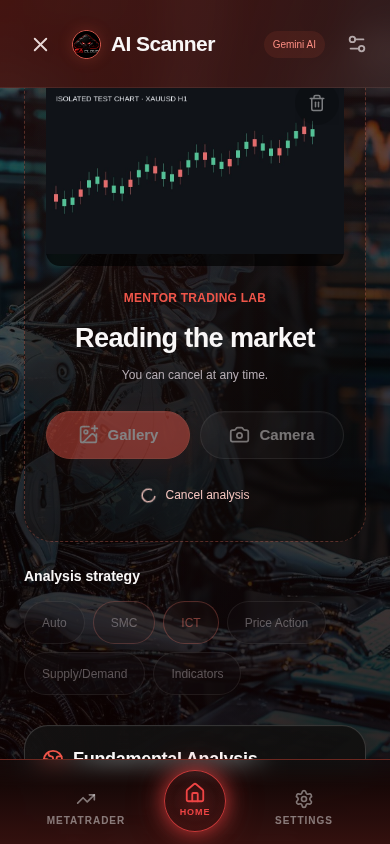
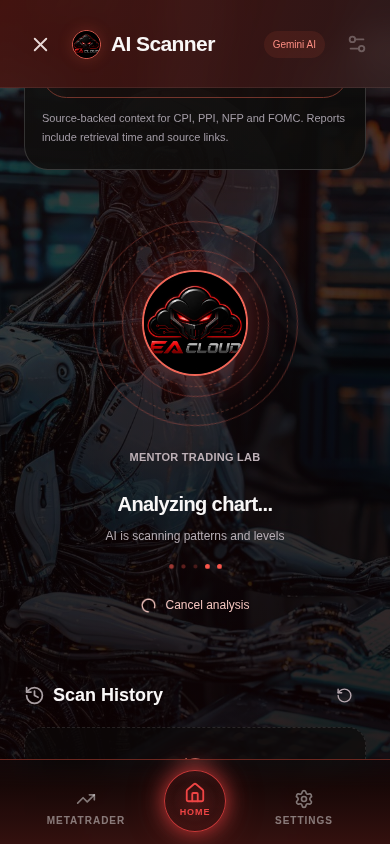
[skip ci] Refine scanner trade settings sheet and analysis animation

diff --git a/artifacts/ea-app/src/components/ChartScannerModal.tsx b/artifacts/ea-app/src/components/ChartScannerModal.tsx
@@ -3,6 +3,8 @@ import { useState, useEffect, useRef, useCallback, type ChangeEvent } from "reac
 import { useApp, type Tab } from "@/context/AppContext";
 import { eaLogo } from "@/lib/branding";
 import BottomNav from "@/components/BottomNav";
+import ScannerTradeSettings from "@/components/ScannerTradeSettings";
+import { formatLots, type ScannerTradeSettings as TradeSettings } from "@/lib/scanner-trade-settings";
 import { prepareChart, scannerRequest, strategies, type Strategy, type ScannerRecord, type ChartReport, type FundamentalReport, type FundamentalRequest } from "@/lib/scanner";
 import "./ChartScannerModal.css";
 
@@ -25,10 +27,11 @@ export default function ChartScannerModal({ onClose, onNavigate }: ChartScannerM
   const [hasMore, setHasMore] = useState(false);
   const [result, setResult] = useState<ScannerRecord | null>(null);
   const [context, setContext] = useState<FundamentalRequest>({ market: "XAUUSD", focus: "General market", outlook: "Next 1–3 days" });
-  const [lot, setLot] = useState("0.01");
-  const [positions, setPositions] = useState(1);
+  const [tradeSettings, setTradeSettings] = useState<TradeSettings>({ lotUnits: 1, positions: 1 });
+  const [settingsOpen, setSettingsOpen] = useState(false);
+  const [settingsSaved, setSettingsSaved] = useState(false);
   const gallery = useRef<HTMLInputElement>(null), camera = useRef<HTMLInputElement>(null);
-  const modal = useRef<HTMLDivElement>(null), settings = useRef<HTMLDetailsElement>(null), results = useRef<HTMLDivElement>(null);
+  const modal = useRef<HTMLDivElement>(null), scanArea = useRef<HTMLElement>(null), results = useRef<HTMLDivElement>(null);
   const attempt = useRef<AbortController | null>(null), historyAttempt = useRef<AbortController | null>(null);
   const selection = useRef(0), alive = useRef(true), pending = useRef(false);
   const lastKind = useRef<"chart" | "fundamental" | null>(null);
@@ -60,6 +63,7 @@ export default function ChartScannerModal({ onClose, onNavigate }: ChartScannerM
   useEffect(() => {
     const controller = new AbortController();
     setConfigured(null); setRecords([]); setResult(null); setFile(null);
+    setSettingsOpen(false); setSettingsSaved(false); setTradeSettings({ lotUnits: 1, positions: 1 });
     attempt.current?.abort(); selection.current++; setPhase("idle"); pending.current = false;
     if (clientToken) {
       void scannerRequest<{ configured: boolean }>("status", clientToken, controller.signal).then(data => { if (!controller.signal.aborted) setConfigured(data.configured); }).catch(() => { /* Request errors are surfaced on Analyse; do not invent readiness. */ });
@@ -81,6 +85,7 @@ export default function ChartScannerModal({ onClose, onNavigate }: ChartScannerM
     pending.current = true; lastKind.current = kind;
     attempt.current?.abort(); const controller = new AbortController(); attempt.current = controller;
     setPhase(kind); setError(""); setResult(null);
+    requestAnimationFrame(() => scanArea.current?.scrollIntoView({ block: "center", behavior: window.matchMedia("(prefers-reduced-motion: reduce)").matches ? "instant" : "smooth" }));
     try {
       let init: RequestInit;
       if (kind === "chart") { const body = new FormData(); body.append("image", file!); body.append("strategy", strategy); init = { method: "POST", body }; }
@@ -103,6 +108,7 @@ export default function ChartScannerModal({ onClose, onNavigate }: ChartScannerM
       else if (!event.shiftKey && document.activeElement === last) { event.preventDefault(); first?.focus(); }
     }
   }}>
+    <div className="scanner-main" inert={settingsOpen}>
     {bgImageUrl && <img className="scanner-background" src={bgImageUrl} alt="" />}
     <div className="scanner-shade" />
     <header className="scanner-header">
@@ -110,20 +116,21 @@ export default function ChartScannerModal({ onClose, onNavigate }: ChartScannerM
       <img src={eaLogo} alt="" className="scanner-header-avatar" />
       <h2 id="scanner-title">AI Scanner</h2>
       <span className="scanner-ai-badge">Gemini AI</span>
-      <button className="scanner-icon-button" type="button" aria-label="Scanner trade settings" onClick={() => { if (settings.current) { settings.current.open = true; settings.current.scrollIntoView({ behavior: "smooth", block: "center" }); settings.current.querySelector("summary")?.focus(); } }}><Settings2 size={22} /></button>
+      <button className="scanner-icon-button" type="button" aria-label="Scanner trade settings" disabled={busy} onClick={() => setSettingsOpen(true)}><Settings2 size={22} /></button>
     </header>
     <div className="scanner-scroll">
-      <section className={`scanner-ready ${scanning ? "is-scanning" : ""}`} aria-label="Chart upload" aria-busy={busy}>
-        {preview ? <div className="scanner-chart-preview"><img src={preview} alt="Selected chart to analyse" /><button className="scanner-icon-button" type="button" aria-label="Remove chart" disabled={busy} onClick={() => { setFile(null); setResult(null); setError(""); }}><Trash2 size={18} /></button>{phase === "chart" && <div className="scanner-sweep" />}</div>
+      <section ref={scanArea} className={`scanner-ready ${scanning ? "is-scanning" : ""}`} aria-label="Chart upload" aria-busy={busy}>
+        {preview && !scanning ? <div className="scanner-chart-preview"><img src={preview} alt="Selected chart to analyse" /><button className="scanner-icon-button" type="button" aria-label="Remove chart" disabled={busy} onClick={() => { setFile(null); setResult(null); setError(""); }}><Trash2 size={18} /></button></div>
           : <div className="scanner-orb"><div className="scanner-orbit scanner-orbit-one" /><div className="scanner-orbit scanner-orbit-two" /><img src={eaLogo} alt="EA Cloud" /><ScanLine className="scanner-orb-mark" size={18} /></div>}
         <p className="scanner-mentor">{eaName}</p>
-        <h3>{phase === "preparing" ? "Preparing your chart" : phase === "chart" ? "Reading the market" : phase === "fundamental" ? "Researching the market" : file ? "Your chart is ready" : "Ready to Scan"}</h3>
-        <p className="scanner-ready-description">{busy ? "You can cancel at any time." : file ? "Review your image, choose a strategy and analyse." : "Upload a chart screenshot or take a photo"}</p>
+        <h3 aria-live="polite">{phase === "preparing" ? "Preparing your chart" : phase === "chart" ? "Analyzing chart..." : phase === "fundamental" ? "Analyzing fundamentals..." : file ? "Your chart is ready" : "Ready to Scan"}</h3>
+        <p className="scanner-ready-description">{scanning ? phase === "chart" ? "AI is scanning patterns and levels" : "AI is researching economic releases and market context" : busy ? "Preparing a clear, optimised chart image." : file ? "Review your image, choose a strategy and analyse." : "Upload a chart screenshot or take a photo"}</p>
         <input ref={gallery} type="file" accept="image/png,image/jpeg,image/webp" aria-label="Choose chart from gallery" onChange={choose} hidden />
         <input ref={camera} type="file" accept="image/*" capture="environment" aria-label="Take chart photo" onChange={choose} hidden />
-        <div className="scanner-upload-actions"><button type="button" className="scanner-primary" disabled={busy} onClick={() => gallery.current?.click()}><ImagePlus size={21} /> Gallery</button><button type="button" className="scanner-glass-button" disabled={busy} onClick={() => camera.current?.click()}><Camera size={21} /> Camera</button></div>
+        {!scanning && <div className="scanner-upload-actions"><button type="button" className="scanner-primary" disabled={busy} onClick={() => gallery.current?.click()}><ImagePlus size={21} /> Gallery</button><button type="button" className="scanner-glass-button" disabled={busy} onClick={() => camera.current?.click()}><Camera size={21} /> Camera</button></div>}
         {file && !busy && <p className="scanner-upload-note">Analyse sends this chart to Google Gemini. Avoid account details in the image.</p>}
         {file && !busy && <button type="button" className="scanner-analyse" onClick={() => void analyse("chart")}><ScanLine size={18} /> Analyse chart <ArrowUpRight size={17} /></button>}
+        {scanning && <div className="scanner-analysis-dots" aria-hidden="true">{[0,1,2,3,4].map(i => <span key={i} style={{ animationDelay: `${i * .16}s` }} />)}</div>}
         {busy && <button type="button" className="scanner-cancel" onClick={cancel}><LoaderCircle size={17} className="scanner-loader" /> Cancel {phase === "preparing" ? "preparation" : "analysis"}</button>}
       </section>
       {error && <div className="scanner-error" role="alert"><p>{error}</p><button type="button" onClick={() => lastKind.current ? void analyse(lastKind.current) : gallery.current?.click()} disabled={busy}><RotateCcw size={14} /> Retry</button></div>}
@@ -146,7 +153,7 @@ export default function ChartScannerModal({ onClose, onNavigate }: ChartScannerM
           <p className="scanner-record-note"><ShieldCheck size={14} /> Saved to your scan history</p>
         </article>}
       </div>
-      <details ref={settings} className="scanner-trade-settings" open={Boolean(chart) || undefined}><summary>Trade settings <span>MT5 preparation</span></summary><div className="scanner-trade-fields"><label>Lot size<input type="number" inputMode="decimal" min="0.01" max="100" step="0.01" value={lot} onChange={e => setLot(e.target.value)} /></label><label>Positions<input type="number" inputMode="numeric" min="1" max="20" step="1" value={positions} onChange={e => setPositions(Math.min(20,Math.max(1,Number(e.target.value) || 1)))} /></label></div><button className="scanner-execute" type="button" disabled>Execute Trade</button><p>{chart?.signal === "NO TRADE" ? "NO TRADE — no order is available. " : ""}Scanner trade execution is not integrated. No order will be submitted. Lot and position settings are preparation only.</p></details>
+      <section className="scanner-trade-settings" aria-label="Selected trade parameters" hidden={scanning}><div className="scanner-settings-launch"><div><h3>Trade settings</h3><p>{tradeSettings.positions} {tradeSettings.positions === 1 ? "position" : "positions"} · {formatLots(tradeSettings.lotUnits)} lots each</p></div><button type="button" aria-label="Edit trade settings" disabled={busy} onClick={() => setSettingsOpen(true)}><Settings2 size={18} /></button></div>{settingsSaved && <p className="scanner-settings-saved" role="status">Settings saved for this scanner session. No order submitted.</p>}<button className="scanner-execute" type="button" disabled>Execute Trade</button><p>{chart?.signal === "NO TRADE" ? "NO TRADE — no order is available. " : ""}MT5 scanner execution is not integrated. No order will be submitted.</p></section>
       <section className="scanner-history" aria-labelledby="scanner-history-title"><h3 id="scanner-history-title"><History size={21} /> Scan History <button type="button" aria-label="Refresh scan history" disabled={historyLoading} onClick={() => void loadHistory()}><RotateCcw size={17} /></button></h3>
         {historyError ? <p className="scanner-history-error" role="alert">{historyError}<button type="button" onClick={() => void loadHistory()}>Retry history</button></p> : historyLoading && !records.length ? <p>Loading your saved reports…</p> : !records.length ? <div className="scanner-history-empty"><History size={25} /><p>Your next insight starts here.</p><span>Completed reports will appear in your private history.</span></div> : <div className="scanner-history-list">{records.map(record => <button key={record.id} type="button" onClick={() => { setResult(record); requestAnimationFrame(() => results.current?.scrollIntoView({ behavior: "smooth", block: "start" })); }}><span className="scanner-history-icon">{record.kind === "chart" ? <ScanLine size={19} /> : <Globe2 size={19} />}</span><span><strong>{record.kind === "chart" ? `${(record.report as ChartReport).symbol || "Chart"} · ${(record.report as ChartReport).signal}` : `${(record.report as FundamentalReport).context.market} · Fundamentals`}</strong><small>{formatDate(record.createdAt)}</small></span><ArrowUpRight size={16} /></button>)}</div>}
         {hasMore && <button className="scanner-history-more" type="button" disabled={historyLoading} onClick={() => void loadHistory(historyPage + 1)}>{historyLoading ? "Loading…" : "Load older scans"}</button>}
@@ -154,5 +161,7 @@ export default function ChartScannerModal({ onClose, onNavigate }: ChartScannerM
       <footer className="scanner-disclosure">{configured === false && <p>AI analysis is not configured yet.</p>}Charts are sent to Google Gemini only when you request analysis. AI suggestions can be wrong; verify prices and risk before trading. No guaranteed results.</footer>
     </div>
     <div className="scanner-navigation"><BottomNav activeTab="home" onTabChange={navigate} /></div>
+    </div>
+    {settingsOpen && <ScannerTradeSettings initial={tradeSettings} onClose={() => setSettingsOpen(false)} onConfirm={value => { setTradeSettings(value); setSettingsSaved(true); setSettingsOpen(false); }} />}
   </div>;
 }

diff --git a/artifacts/ea-app/src/components/ChartScannerModal.css b/artifacts/ea-app/src/components/ChartScannerModal.css
@@ -36,7 +36,6 @@
 .is-scanning .scanner-orbit-one { animation:scanner-rotate 12s linear infinite; }
 .is-scanning .scanner-orbit-two { animation:scanner-rotate 8s linear infinite reverse; }
 .scanner-loader { animation:scanner-rotate 1.3s linear infinite; }
-.scanner-sweep { position:absolute; left:0; right:0; height:30%; top:-30%; background:linear-gradient(transparent,#e74e4a30); border-bottom:1px solid #ff8471; box-shadow:0 3px 14px #ec654c8a; pointer-events:none; animation:scanner-sweep 2.8s ease-in-out infinite; }
 .scanner-strategies { margin:24px 0 30px; }
 .scanner-strategies h3 { font-size:14px; font-weight:550; margin-bottom:14px; }
 .scanner-strategies > div { display:flex; flex-wrap:wrap; gap:8px; }
@@ -45,7 +44,7 @@
 .scanner-fundamentals,.scanner-report,.scanner-trade-settings { background:linear-gradient(135deg,#141212f0,#0c0c0be8); border:1px solid #ffffff29; border-radius:24px; padding:22px 17px; box-shadow:0 14px 35px #0003,inset 0 1px 0 #ffffff05; }
 .scanner-fundamentals h3 { display:flex; align-items:center; gap:9px; font-size:18px; line-height:1.3; font-weight:650; margin-bottom:24px; letter-spacing:-.3px; }
 .scanner-fundamentals h3 svg { color:var(--scanner-red); flex-shrink:0; }
-.scanner-fundamental-fields,.scanner-trade-fields { display:grid; grid-template-columns:minmax(0,1fr) minmax(0,1fr); gap:17px 12px; }
+.scanner-fundamental-fields { display:grid; grid-template-columns:minmax(0,1fr) minmax(0,1fr); gap:17px 12px; }
 .scanner-screen label { display:flex; flex-direction:column; gap:9px; min-width:0; font-size:12px; color:#aaa4ae; }
 .scanner-screen select,.scanner-screen input[type=number] { width:100%; color:#f5f2f3; background:#040404; border:1px solid #ffffff24; border-radius:9px; padding:11px 8px; min-height:44px; font-size:14px; min-width:0; }
 .scanner-screen select { padding-right:4px; }
@@ -73,9 +72,6 @@
 .scanner-report a svg { display:inline-block; margin-left:3px; }
 .scanner-report .scanner-record-note { display:flex; gap:7px; align-items:center; color:#a1c3ad; font-size:10px; border-top:1px solid #ffffff10; padding-top:14px; margin-top:20px; }
 .scanner-trade-settings { margin-top:22px; padding:17px; }
-.scanner-trade-settings summary { cursor:pointer; font-size:13px; min-height:28px; }
-.scanner-trade-settings summary span { color:#928894; font-size:10px; float:right; padding-top:3px; }
-.scanner-trade-fields { margin-top:18px; }
 .scanner-execute { border:1px solid #f16a5980; background:#661b175e; min-height:46px; border-radius:13px; width:100%; color:#ffc2b5; margin:16px 0 8px; font-size:13px; }
 .scanner-trade-settings p { font-size:10px; color:#b4a5ad; line-height:1.7; }
 .scanner-history { margin-top:35px; }
@@ -100,7 +96,36 @@
 .scanner-navigation { position:absolute; bottom:0; left:0; right:0; height:calc(85px + env(safe-area-inset-bottom)); padding-bottom:env(safe-area-inset-bottom); z-index:4; background:linear-gradient(0deg,#35110ff5,#180807ec 70%,#22080700); border-top:1px solid #c94f405c; backdrop-filter:blur(14px); }
 .scanner-navigation > div { bottom:env(safe-area-inset-bottom) !important; background:transparent !important; }
 @keyframes scanner-rotate { to { transform:rotate(360deg); } }
-@keyframes scanner-sweep { 0% { top:-30%; opacity:0; } 15% { opacity:1; } 90% { opacity:1; } 100% { top:100%; opacity:0; } }
 @media (max-width:360px) { .scanner-header { gap:7px; padding-inline:10px; } .scanner-header h2 { font-size:19px; } .scanner-header-avatar { width:24px; height:24px; } .scanner-ai-badge { font-size:9px; padding:5px; } .scanner-scroll { padding:20px 16px 110px; } .scanner-ready { padding:28px 14px 22px; } .scanner-ready h3 { font-size:25px; } .scanner-strategies button { padding-inline:14px; } .scanner-fundamentals { padding-inline:14px; } .scanner-fundamentals h3 { font-size:17px; } }
 @media (prefers-reduced-motion:reduce) { .scanner-screen *, .scanner-screen *::before, .scanner-screen *::after { animation:none !important; transition:none !important; scroll-behavior:auto !important; } }
 .scanner-upload-note { font-size:9px; color:#bca3ad; line-height:1.6; margin-top:13px; }
+/* Second reference batch: settings sheet and an atmospheric pending-analysis view. */
+.scanner-main { display:contents; }
+.scanner-scroll { display:flex; flex-direction:column; }
+.scanner-scroll > * { flex-shrink:0; }
+.scanner-strategies { order:1; }
+.scanner-fundamentals { order:2; }
+.scanner-ready.is-scanning { order:3; border-color:transparent; background:none; box-shadow:none; margin-top:25px; padding:25px 12px 10px; }
+.scanner-ready.is-scanning .scanner-orb { width:205px; height:205px; margin-bottom:23px; }
+.scanner-ready.is-scanning .scanner-orb > img { width:106px; height:106px; box-shadow:0 0 45px #eb433c6b; }
+.scanner-ready.is-scanning .scanner-orb-mark { display:none; }
+.scanner-ready.is-scanning .scanner-orbit-two { inset:29px; }
+.scanner-ready.is-scanning .scanner-mentor { color:#bdb0b6; font-size:11px; }
+.scanner-ready.is-scanning h3 { font-size:20px; margin-top:27px; }
+.scanner-ready.is-scanning .scanner-ready-description { font-size:12px; margin:11px 0 18px; }
+.scanner-analysis-dots { display:flex; justify-content:center; gap:7px; margin-top:18px; }
+.scanner-analysis-dots span { width:5px; height:5px; border-radius:50%; background:#fb574c; animation:scanner-dot 1.4s ease-in-out infinite; }
+.scanner-results { order:5; }
+.scanner-trade-settings { order:6; }
+.scanner-history { order:7; }
+.scanner-disclosure { order:8; }
+.scanner-settings-launch { display:flex; align-items:center; gap:12px; }
+.scanner-settings-launch h3 { font-size:13px; font-weight:600; }
+.scanner-settings-launch p { margin-top:7px; }
+.scanner-settings-launch button { width:44px; height:44px; margin-left:auto; border:1px solid #9b55404f; border-radius:12px; background:#8c362516; color:#f29480; display:grid; place-items:center; }
+.scanner-trade-settings .scanner-settings-saved { margin-top:10px; color:#b9d1ba; }
+@keyframes scanner-dot { 0%,100% { opacity:.25; transform:scale(.8); } 50% { opacity:1; transform:scale(1.1); } }
+@media (prefers-reduced-motion:reduce) { .scanner-analysis-dots span { animation:none; opacity:.8; } }
+.scanner-shade::after { content:''; position:absolute; inset:0; background:#080204; opacity:0; transition:opacity .5s ease; }
+.scanner-screen:has(.is-scanning) .scanner-shade::after { opacity:.22; }
+.scanner-ready.is-scanning .scanner-orbit { border-color:#ef675555; }

diff --git a/artifacts/ea-app/src/components/ScannerTradeSettings.css b/artifacts/ea-app/src/components/ScannerTradeSettings.css
@@ -1,0 +1,36 @@
+.scanner-sheet-backdrop { position:absolute; inset:0 0 calc(85px + env(safe-area-inset-bottom)); z-index:10; display:flex; align-items:flex-end; background:#0009; backdrop-filter:blur(3px); -webkit-backdrop-filter:blur(3px); }
+.scanner-trade-sheet { width:100%; max-height:calc(100% - 14px); display:flex; flex-direction:column; border:1px solid #ed514c; border-bottom-color:#7a2926; border-radius:29px 29px 0 0; background:radial-gradient(ellipse at 95% 0%,#8c29272c,transparent 38%),linear-gradient(130deg,#131313f7,#060809fa); box-shadow:0 -8px 30px #e732322c,inset 0 1px 0 #ffb2a4; animation:scanner-sheet-arrive .3s cubic-bezier(.2,.8,.2,1) both; }
+.scanner-sheet-handle { flex-shrink:0; width:36px; height:4px; background:#a79c9e; border-radius:9px; margin:10px auto; }
+.scanner-sheet-header { display:flex; gap:12px; align-items:center; padding:0 21px 14px; position:relative; flex-shrink:0; }
+.scanner-sheet-title-icon { display:grid; place-items:center; width:40px; height:40px; border:1px solid #8a332c; border-radius:13px; color:#ff5a4e; background:linear-gradient(140deg,#7b241d32,#131010); box-shadow:inset 0 1px 0 #ffffff0c; flex-shrink:0; }
+.scanner-sheet-header h3 { font-size:22px; font-weight:700; letter-spacing:-.5px; }
+.scanner-sheet-header p { font-size:11px; color:#a8a0a9; margin-top:4px; }
+.scanner-sheet-close { width:44px; height:44px; border:1px solid #85433d; color:#f3eeef; border-radius:11px; background:linear-gradient(135deg,#ffffff1e,#151215); box-shadow:inset 0 1px 0 #ffffff18; display:grid; place-items:center; margin-left:auto; flex-shrink:0; }
+.scanner-sheet-body { overflow-y:auto; overscroll-behavior:contain; padding:0 15px 17px; scrollbar-width:none; scroll-padding:15px; }
+.scanner-quantity-card { padding:11px 14px 10px; border:1px solid #ffffff1b; border-radius:17px; background:linear-gradient(130deg,#ffffff04,#ffffff01),#0c0d0ee8; margin-bottom:9px; box-shadow:inset 0 1px 0 #ffffff06; }
+.scanner-quantity-heading { display:flex; align-items:center; gap:11px; }
+.scanner-quantity-heading > svg { color:#ff5245; flex-shrink:0; }
+.scanner-quantity-heading h4 { font-size:10px; text-transform:uppercase; font-weight:650; color:#d8d5dc; letter-spacing:.3px; }
+.scanner-quantity-heading p { font-size:9px; color:#a49fa9; margin-top:4px; }
+.scanner-limit { display:flex; align-items:center; gap:6px; font-size:8px; color:#a19aa5; padding:5px 7px; background:#ffffff06; border:1px solid #ffffff0c; border-radius:11px; margin-left:auto; line-height:1.5; white-space:nowrap; }
+.scanner-limit > svg { color:#8d8892; flex-shrink:0; }
+.scanner-quantity-stepper { display:flex; align-items:center; gap:10px; margin-top:9px; padding:4px; border-radius:16px; border:1px solid #94504b70; background:radial-gradient(ellipse at 50% 100%,#ff2d2520,transparent 65%),linear-gradient(120deg,#ffffff0b,#0d0d0f 35%,#0d0d0f 65%,#bf3f3324); box-shadow:inset 0 1px 0 #ffffff0b,0 0 16px #f8473610; }
+.scanner-quantity-stepper > button { width:44px; height:44px; display:grid; place-items:center; border:1px solid #a448425c; border-radius:12px; color:#fff; background:linear-gradient(135deg,#ffffff18,#ffffff05); flex-shrink:0; box-shadow:inset 0 1px 0 #ffffff1a; }
+.scanner-quantity-stepper > button:last-child { background:linear-gradient(135deg,#e4484366,#6a24263b); border-color:#ff695aa6; box-shadow:0 0 16px #ff2d2136,inset 0 1px 0 #ffb4a838; }
+.scanner-quantity-stepper input { min-width:0; width:100%; text-align:center; color:white; font-size:24px; font-weight:700; border:0; background:transparent; padding:5px 0; font-variant-numeric:tabular-nums; border-radius:8px; }
+.scanner-quantity-presets { display:grid; grid-template-columns:repeat(5,minmax(0,1fr)); gap:8px; margin-top:8px; }
+.scanner-quantity-presets button { min-height:44px; padding:7px 0; color:#cbc7cf; font-size:12px; font-weight:600; border:1px solid #ffffff18; border-radius:12px; background:linear-gradient(140deg,#ffffff0a,#ffffff03); box-shadow:inset 0 1px 0 #ffffff06; }
+.scanner-quantity-presets button[aria-pressed=true] { color:#fff; background:linear-gradient(140deg,#fe5a50,#ce2219); border-color:#ffad7e; box-shadow:0 0 17px #ff302981,inset 0 1px 0 #ffc4a2; }
+.scanner-setting-error { color:#ffab9d; font-size:10px; line-height:1.5; margin-top:8px; }
+.scanner-settings-summary { display:flex; gap:15px; align-items:center; border:1px solid #e76757b0; padding:11px 14px; border-radius:14px; background:linear-gradient(125deg,#8e211c35,#191013 55%,#9f201b30); box-shadow:inset 0 1px 0 #ffb6a33b; margin-top:11px; }
+.scanner-settings-summary > svg { flex-shrink:0; color:#ff5d4c; }
+.scanner-settings-summary span { display:block; font-size:10px; color:#b6a8b1; margin-bottom:4px; }
+.scanner-settings-summary strong { color:#ff655a; font-size:16px; font-weight:700; }
+.scanner-confirm-settings { display:flex; align-items:center; justify-content:center; gap:10px; width:100%; min-height:52px; margin-top:14px; padding:12px 18px; border:1px solid #ffb8ad; border-radius:30px; color:white; background:radial-gradient(ellipse at 15% 0%,#ffba9a55,transparent 40%),linear-gradient(125deg,#fb3d34,#d72a27 65%,#ff6158); box-shadow:0 0 20px #ff342d48,inset 0 1px 0 #ffe7c6; font-size:13px; font-weight:750; letter-spacing:.8px; text-transform:uppercase; }
+.scanner-confirm-settings > svg:last-child { margin-left:auto; }
+.scanner-confirm-settings > svg:first-child { margin-left:auto; }
+.scanner-settings-disclosure { color:#aa989f; font-size:9px; line-height:1.65; text-align:center; margin:11px 7px 0; }
+@keyframes scanner-sheet-arrive { from { opacity:0; transform:translateY(35px); } to { opacity:1; transform:translateY(0); } }
+@media (max-width:360px) { .scanner-sheet-header { padding-inline:15px; gap:9px; } .scanner-sheet-header h3 { font-size:20px; } .scanner-sheet-title-icon { width:39px; height:39px; } .scanner-quantity-card { padding-inline:12px; } .scanner-quantity-heading { gap:8px; } .scanner-limit { font-size:8px; padding-inline:6px; gap:4px; } .scanner-quantity-heading p { max-width:125px; font-size:9px; } .scanner-quantity-presets { gap:6px; } }
+@media (max-height:700px) { .scanner-sheet-handle { margin-block:10px; } .scanner-sheet-header { padding-bottom:14px; } }
+@media (prefers-reduced-motion:reduce) { .scanner-trade-sheet { animation:none; } }

diff --git a/artifacts/ea-app/src/components/ScannerTradeSettings.tsx b/artifacts/ea-app/src/components/ScannerTradeSettings.tsx
@@ -1,0 +1,51 @@
+import { useEffect, useRef, useState } from "react";
+import { Activity, ArrowRight, ChartNoAxesCombined, Coins, Crosshair, Info, Layers3, Minus, Plus, X } from "lucide-react";
+import { adjustLotUnits, formatLots, parseLotUnits, parsePositions, type ScannerTradeSettings as TradeSettings } from "@/lib/scanner-trade-settings";
+import "./ScannerTradeSettings.css";
+
+interface Props { initial: TradeSettings; onConfirm: (settings: TradeSettings) => void; onClose: () => void }
+export default function ScannerTradeSettings({ initial, onConfirm, onClose }: Props) {
+  const [lot, setLot] = useState(formatLots(initial.lotUnits));
+  const [positions, setPositions] = useState(String(initial.positions));
+  const dialog = useRef<HTMLDivElement>(null);
+  const lotUnits = parseLotUnits(lot), count = parsePositions(positions);
+  const valid = lotUnits !== null && count !== null;
+  useEffect(() => {
+    const previous = document.activeElement as HTMLElement | null;
+    dialog.current?.querySelector<HTMLButtonElement>("button")?.focus({ preventScroll: true });
+    return () => previous?.focus({ preventScroll: true });
+  }, []);
+  return <div className="scanner-sheet-backdrop" onClick={event => { if (event.target === event.currentTarget) onClose(); }}>
+    <div ref={dialog} className="scanner-trade-sheet" role="dialog" aria-modal="true" aria-labelledby="scanner-trade-title" aria-describedby="scanner-trade-disclosure"
+      onKeyDown={event => {
+        event.stopPropagation();
+        if (event.key === "Escape") { event.preventDefault(); onClose(); }
+        if (event.key === "Tab") {
+          const items = Array.from(event.currentTarget.querySelectorAll<HTMLElement>("button:not(:disabled),input"));
+          const first = items[0], last = items[items.length - 1];
+          if (event.shiftKey && document.activeElement === first) { event.preventDefault(); last?.focus(); }
+          else if (!event.shiftKey && document.activeElement === last) { event.preventDefault(); first?.focus(); }
+        }
+      }}>
+      <div className="scanner-sheet-handle" aria-hidden="true" />
+      <header className="scanner-sheet-header"><span className="scanner-sheet-title-icon"><Crosshair size={26} /></span><div><h3 id="scanner-trade-title">Trade Settings</h3><p>Configure your trade parameters</p></div><button type="button" className="scanner-sheet-close" aria-label="Close trade settings" onClick={onClose}><X size={23} /></button></header>
+      <div className="scanner-sheet-body">
+        <section className="scanner-quantity-card" aria-labelledby="scanner-lot-title">
+          <div className="scanner-quantity-heading"><Coins size={25} /><div><h4 id="scanner-lot-title">Lot size</h4><p>Select trade size per position</p></div><span className="scanner-limit"><Info size={15} /><span>Min: 0.01<br />Max: 50.00</span></span></div>
+          <div className="scanner-quantity-stepper"><button type="button" aria-label="Decrease lot size" disabled={lotUnits === null || lotUnits === 1} onClick={() => setLot(formatLots(adjustLotUnits(lotUnits!, -1)))}><Minus size={25} /></button><input aria-label="Lot size" aria-invalid={lotUnits === null} aria-describedby={lotUnits === null ? "scanner-lot-error" : undefined} inputMode="decimal" type="text" maxLength={6} value={lot} onChange={event => setLot(event.target.value)} /><button type="button" aria-label="Increase lot size" disabled={lotUnits === null || lotUnits === 5000} onClick={() => setLot(formatLots(adjustLotUnits(lotUnits!, 1)))}><Plus size={25} /></button></div>
+          {lotUnits === null && <p id="scanner-lot-error" className="scanner-setting-error">Enter 0.01–50.00 lots, with up to two decimal places.</p>}
+          <div className="scanner-quantity-presets">{[1,5,10,50,100].map(units => <button type="button" key={units} aria-label={`Set lot size to ${formatLots(units)}`} aria-pressed={lotUnits === units} onClick={() => setLot(formatLots(units))}>{formatLots(units)}</button>)}</div>
+        </section>
+        <section className="scanner-quantity-card" aria-labelledby="scanner-positions-title">
+          <div className="scanner-quantity-heading"><Layers3 size={25} /><div><h4 id="scanner-positions-title">Trades per signal</h4><p>Number of positions to open</p></div><span className="scanner-limit"><Info size={15} /><span>Min: 1<br />Max: 20</span></span></div>
+          <div className="scanner-quantity-stepper"><button type="button" aria-label="Decrease positions" disabled={count === null || count === 1} onClick={() => setPositions(String(count! - 1))}><Minus size={25} /></button><input aria-label="Positions" aria-invalid={count === null} aria-describedby={count === null ? "scanner-positions-error" : undefined} type="text" inputMode="numeric" maxLength={2} value={positions} onChange={event => setPositions(event.target.value)} /><button type="button" aria-label="Increase positions" disabled={count === null || count === 20} onClick={() => setPositions(String(count! + 1))}><Plus size={25} /></button></div>
+          {count === null && <p id="scanner-positions-error" className="scanner-setting-error">Enter a whole number from 1 to 20.</p>}
+          <div className="scanner-quantity-presets">{[1,2,3,5,10].map(value => <button key={value} type="button" aria-label={`Set positions to ${value}`} aria-pressed={count === value} onClick={() => setPositions(String(value))}>{value}</button>)}</div>
+        </section>
+        <div className="scanner-settings-summary" aria-live="polite"><ChartNoAxesCombined size={25} /><div><span>Selected parameters</span><strong>{valid ? `${count} ${count === 1 ? "trade" : "trades"} × ${formatLots(lotUnits)} lots` : "Check your trade parameters"}</strong></div></div>
+        <button type="button" className="scanner-confirm-settings" disabled={!valid} onClick={() => { if (valid) onConfirm({ lotUnits, positions: count }); }}><Activity size={22} /><span>Confirm settings</span><ArrowRight size={24} /></button>
+        <p id="scanner-trade-disclosure" className="scanner-settings-disclosure">Settings only. MT5 scanner execution is unavailable; no order will be submitted. Broker limits must be verified before live trading.</p>
+      </div>
+    </div>
+  </div>;
+}

diff --git a/artifacts/ea-app/src/lib/scanner-trade-settings.ts b/artifacts/ea-app/src/lib/scanner-trade-settings.ts
@@ -1,0 +1,19 @@
+// Preparation limits only; actual broker limits must be checked by a future MT5 adapter.
+export const LOT_MIN_UNITS = 1;
+export const LOT_MAX_UNITS = 5000;
+export interface ScannerTradeSettings { lotUnits: number; positions: number }
+export const formatLots = (units: number) => (units / 100).toFixed(2);
+export function parseLotUnits(value: string): number | null {
+  const match = /^(\d{0,2})(?:\.(\d{1,2}))?$/.exec(value.trim());
+  if (!match || (!match[1] && !match[2])) return null;
+  const units = Number(match[1] || 0) * 100 + Number((match[2] || "").padEnd(2, "0"));
+  return units >= LOT_MIN_UNITS && units <= LOT_MAX_UNITS ? units : null;
+}
+export function parsePositions(value: string): number | null {
+  if (!/^\d{1,2}$/.test(value.trim())) return null;
+  const count = Number(value);
+  return count >= 1 && count <= 20 ? count : null;
+}
+export function adjustLotUnits(units: number, direction: 1 | -1) {
+  return Math.max(LOT_MIN_UNITS, Math.min(LOT_MAX_UNITS, units + direction));
+}

diff --git a/docs/gemini-chart-scanner.md b/docs/gemini-chart-scanner.md
@@ -1,6 +1,6 @@
-# EA Cloud AI Scanner — first reference batch
+# EA Cloud AI Scanner — reference batches 1–2
 
-Development branch: `feat/gemini-chart-scanner`, based on main after the MT5 redesign was merged. This is the existing client app and API, not a separate project. This revision follows the supplied ready/upload and fundamental-analysis screenshots. Result-screen details can be refined against later reference batches. Nothing has been deployed or migrated.
+Development branch: `feat/gemini-chart-scanner`, based on main after the MT5 redesign was merged. This is the existing client app and API, not a separate project. This revision follows the supplied ready/upload, fundamental-analysis, Trade Settings and pending-analysis screenshots. Result-screen details can be refined against later reference batches. Nothing has been deployed or migrated.
 
 ## Actual client UI
 
@@ -8,10 +8,12 @@ Development branch: `feat/gemini-chart-scanner`, based on main after the MT5 red
 - Real Gallery chooser and rear-camera capture hint. JPEG, PNG and WebP only; HEIC users get a conversion message. Inputs are bounded to 10 MB and 40 megapixels; each selected image is prepared as JPEG at maximum 1600 px and 2 MB. Object URLs are revoked and bitmaps closed. No bulk image processing or new image service.
 - Selecting an image only prepares a local preview. **Analyse chart** explicitly sends it to Gemini through the authenticated API. The UI explains this next to the action. Original screenshots are not retained in app storage or the database.
 - Auto, SMC, ICT, Price Action, Supply/Demand and Indicators controls feed the analysis request. Scan animations run while a request is pending, respect reduced motion, and support cancellation/close cleanup. There is no fake percentage, hardcoded BUY result or invented credit balance.
+- Pending analysis now uses a centered upright EA Cloud mark, restrained rotating red rings and five pulsing dots, mentor name, exact “Analyzing chart...” and “AI is scanning patterns and levels” text. Fundamentals has its own truthful research text. This state appears below the fundamentals panel only while a real analysis request is pending; cancellation remains available, and reduced motion disables rings/dots. The settings summary is hidden while analysing so history follows directly below.
 - Typed BUY / SELL / NO TRADE results, entry/SL/TP, reasoning and limitations. Unclear charts should yield NO TRADE; invalid/inverted/missing levels are rejected by server validation. Results are suggestions from a screenshot, not live quotes or guarantees.
 - Fundamentals controls: XAUUSD/EURUSD/GBPUSD/USDJPY/US100/US30, General market/CPI/PPI/NFP/FOMC, Intraday/Next 1–3 days/This week. Gemini Google Search grounding supplies source links and retrieval time. Reports without grounding supports and HTTPS source links fail rather than inventing current news. This is a researched snapshot, not a streaming economic calendar. The model is instructed to distinguish actual/forecast/previous/unreleased figures and state missing dates/data.
 - Paginated, client-scoped PostgreSQL report history, refresh/reopen and explicit unavailable states. Empty history is shown only after a successful empty response. Images and credentials are not saved. An aborted request may already have reached Google or completed persistence; refreshing history reconciles reports the server completed before cancellation.
-- Lot-size/position preparation and **disabled Execute Trade**. Both UI and `/execute` endpoint explicitly state that scanner execution is not integrated and no order was sent. Scanner reports never enter mentor signal tables, the copy worker, webhooks or VPS execution.
+- A red glass Trade Settings bottom sheet with exact 0.01-lot steppers, manual decimal input and presets (0.01/0.05/0.10/0.50/1.00), preparation limits of 0.01–50.00 lots, whole positions from 1–20, count presets (1/2/3/5/10), and a live selected-parameters summary. Draft changes commit only through **Confirm settings**; close/backdrop/Escape discard the draft and restore focus. Values are held for this scanner session, not persisted to global trading controls. Underlying content is inert, the sheet traps focus and its body scrolls on small phones.
+- **Confirm settings** is intentionally used instead of the reference’s “Confirm execution”: it performs no API write or order request. Actual **Execute Trade stays disabled**. Both UI and `/execute` endpoint explicitly state that scanner execution is not integrated and no order was sent. Scanner reports never enter mentor signal tables, the copy worker, webhooks or VPS execution.
 - Existing MetaTrader/Home/Settings navigation is reused. Closing returns to the launcher; scanner navigation closes the modal and selects the requested tab. Keyboard focus is trapped/restored within the scanner.
 
 ## Server and contracts
@@ -51,19 +53,23 @@ These captures run the real React build at 390 × 844 with isolated auth, dashbo
 | --- | --- |
 | ![Ready, gallery/camera and strategies](previews/scanner/ready-mobile.png) | ![Fundamentals controls and history](previews/scanner/fundamentals-mobile.png) |
 
-[Pending chart animation](previews/scanner/scanning-mobile.png) · [Report UI — explicitly labelled fixture, not live Gemini](previews/scanner/report-fixture-mobile.png) · [Unavailable service](previews/scanner/unavailable-mobile.png) · [320px phone](previews/scanner/small-mobile.png)
+| Trade Settings — second batch | Pending analysis — second batch |
+| --- | --- |
+| ![Trade settings, 0.05 lots and two positions](previews/scanner/trade-settings-mobile.png) | ![Real pending request, centered rings and dots](previews/scanner/scanning-mobile.png) |
+
+[Scrollable settings at 320 × 568](previews/scanner/trade-settings-small-mobile.png) · [Pending chart animation](previews/scanner/scanning-mobile.png) · [Report UI — explicitly labelled fixture, not live Gemini](previews/scanner/report-fixture-mobile.png) · [Unavailable service](previews/scanner/unavailable-mobile.png) · [320px phone](previews/scanner/small-mobile.png)
 
 ## Validation
 
-- 37 unit tests passed: 7 new Gemini/result/image/grounding/cancellation checks plus 30 existing MT5/mobile loading/Pages/background-storage/bootstrap tests.
+- 40 unit tests passed: 3 lot/position validation/step tests, 7 Gemini/result/image/grounding/cancellation checks plus 30 existing MT5/mobile loading/Pages/background-storage/bootstrap tests.
 - Isolated scanner HTTP route test passed with in-memory records and mocked query conditions/provider: approved/licensed access, expired licences, two known clients seeing only their own reports even with clientId injection, invalid requests, history-unavailable preflight before AI cost, report persistence and always-unavailable execution. This does **not** validate the migration against a real PostgreSQL server or replace staging tests.
-- Production-browser suite passed: real Gallery/Camera chooser, capture hint, JPEG preparation, explicit request only after Analyse, strategy payload, animation, typed BUY/NO TRADE fixture rendering, grounded fundamental fixture/source link, report reopening from history, unavailable/history error and retry, cancellation, disabled execution, reduced motion, 320px/mobile/desktop overflow and no runtime/unexpected console errors. No production AI, MT5 or database calls.
+- Production-browser suite passed: real Gallery/Camera chooser, capture hint, JPEG preparation, explicit request only after Analyse, strategy payload, animation, typed BUY/NO TRADE fixture rendering, grounded fundamental fixture/source link, report reopening from history, unavailable/history error and retry, cancellation, disabled execution, settings presets/manual limits/confirm-without-API/cancel-draft/focus restoration, scrollable narrow settings sheet, reduced motion, 320px/mobile/desktop overflow and no runtime/unexpected console errors. No production AI, MT5 or database calls.
 - TypeScript library build plus mobile, website and API checks passed. API production build and combined Pages website/mobile build with route verification passed.
 
 Reproduce from repository root (installed dependencies required):
 
 ```sh
-node --test --test-isolation=none scripts/tests/scanner.test.mjs scripts/tests/mt5-preview.test.mjs scripts/tests/mobile-loading.test.mjs scripts/tests/pages.test.mjs scripts/tests/background-storage.test.mjs scripts/tests/bootstrap.test.mjs
+node --test --test-isolation=none scripts/tests/scanner-trade-settings.test.mjs scripts/tests/scanner.test.mjs scripts/tests/mt5-preview.test.mjs scripts/tests/mobile-loading.test.mjs scripts/tests/pages.test.mjs scripts/tests/background-storage.test.mjs scripts/tests/bootstrap.test.mjs
 node --test --test-isolation=none scripts/tests/scanner-api.test.mjs
 pnpm run typecheck
 pnpm run build:pages
